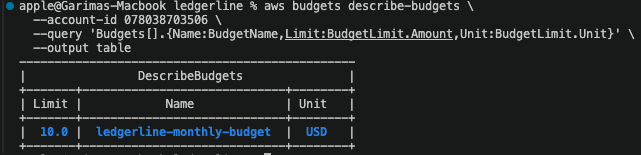
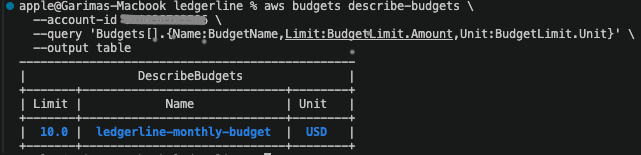
Polish README and redact AWS screenshots

diff --git a/README.md b/README.md
@@ -1,11 +1,24 @@
 # Ledgerline
 
+[![Main pipeline](https://github.com/garima24112000/ledgerline/actions/workflows/deploy.yml/badge.svg?branch=main)](https://github.com/garima24112000/ledgerline/actions/workflows/deploy.yml)
+
+**TL;DR:** Local benchmark: **231 req/s at 176 ms p99 with 0% errors**; **6,000 duplicate requests across 600 idempotency keys produced 600 payments and 0 duplicate payments**; **deployed and verified on AWS EKS + RDS** with Terraform and GitHub Actions OIDC.
+
 A mini payment gateway for small merchants: an idempotent payments API on a double-entry ledger, a
 fake card processor that randomly declines, is slow, or times out, and signed webhooks delivered
 through a transactional outbox and Kafka. It runs locally, on kind, and on AWS (EKS + RDS, deployed
 by GitHub Actions over OIDC).
 
-It's a personal learning project. Every design decision, trade-off and measurement is written up in
+## Why I built it
+
+I built Ledgerline after working on payment integrations at Razorpay and becoming interested in
+the reliability problems hidden behind a seemingly simple payment API. I wanted to build the pieces
+I had interacted with from the integration side: idempotency under concurrency, a double-entry ledger,
+reliable event delivery, retries, rate limiting, observability, and production-style deployment.
+The goal was not just to make a payment request succeed, but to test what happens when requests are
+duplicated, dependencies time out, and the system is pushed past its capacity.
+
+Every design decision, trade-off and measurement is written up in
 [docs/DESIGN.md](docs/DESIGN.md), including [the limit it hits under load](#known-scaling-limits).
 
 ## Highlights
